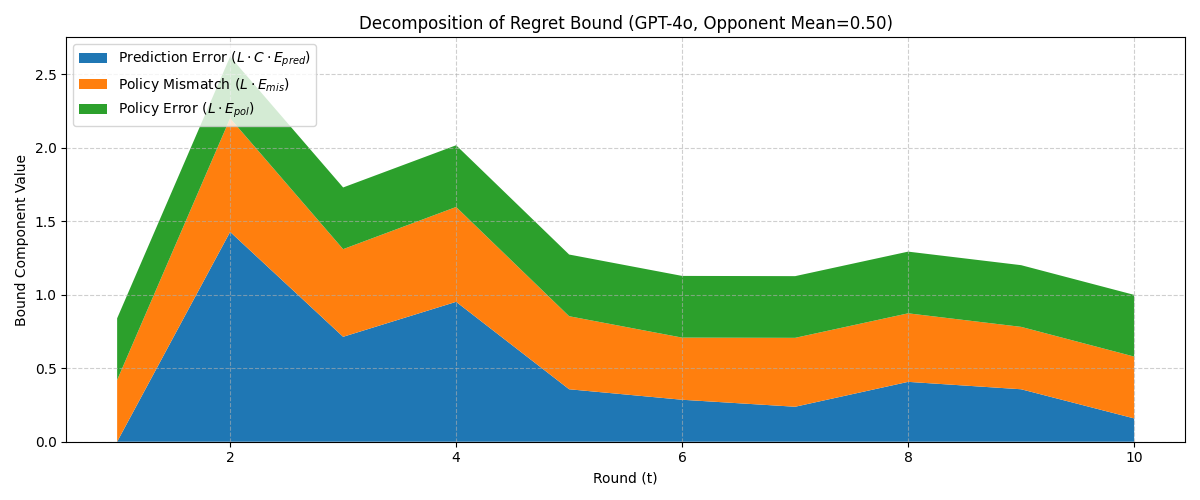
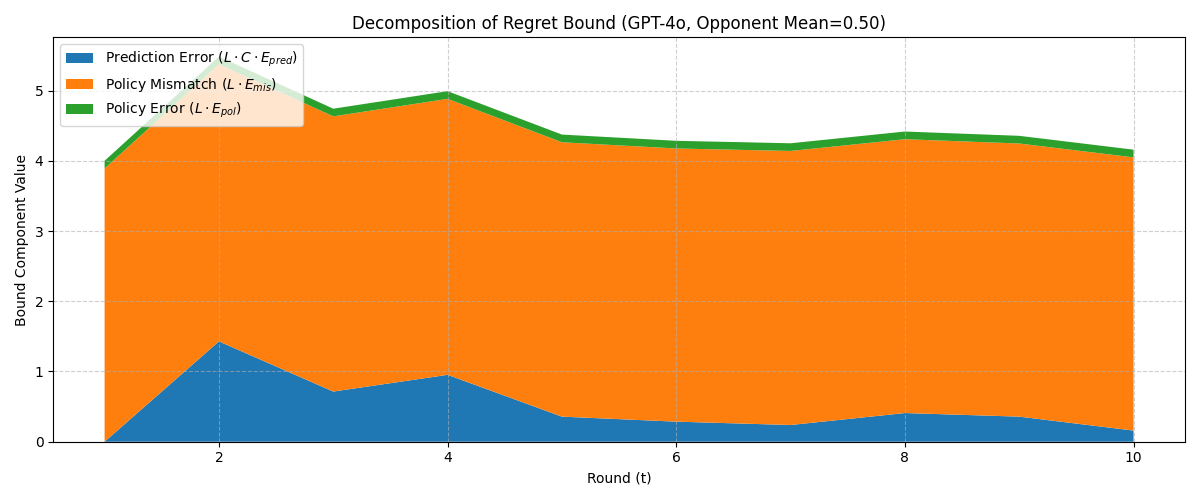
add winwin result for gemini2.0flash

diff --git a/winwin/gemini2.0flashlite/gemini20flash_with_intervention.py b/winwin/gemini2.0flashlite/gemini20flash_with_intervention.py
@@ -1,5 +1,5 @@
 from openai import OpenAI
-from dilemma import *
+from winwin import *
 import numpy as np
 import pandas as pd, os, json
 import matplotlib.pyplot as plt
@@ -190,12 +190,13 @@ def play_round_llm(
 
 
     # L (Lipschitz定数) の計算
-    L_safe = max(abs(R - S), abs(T - P)) # Q値のグローバルなLipschitz定数 (安全側)
+    #L_safe = max(abs(R - S), abs(T - P)) # Q値のグローバルなLipschitz定数 (安全側)
     # L_tight = abs(Q_true[1] - Q_true[0]) # ローカルQ値の差 (タイトだが、安全性が保証されない可能性がある)
 
     # ★ 修正: L_eff の計算は、常に最も安全なグローバル定数L_safeを使用する
     # use_range_L が True/False にかかわらず、カバレッジを保証するためL_safeを使う
-    L_eff = L_safe 
+    #L_eff = L_safe 
+    L_eff = max(R, S, T, P) - min(R, S, T, P)
     # L_eff = L_tight if use_range_L else L_safe # (この行を削除またはコメントアウト)
     C  = 0.5 * beta_f
 
@@ -556,8 +557,8 @@ def make_pd_env(seed, tremble):
     # ここはあなたの GeneralSum 環境に合わせて置き換えてください
     # 例: GeneralSumGameEnv(payoff_x, payoff_y, p_opponent, tremble, seed, env_id)
     return GeneralSumGameENV(
-        payoff_x=payoff_dilemma_x,
-        payoff_y=payoff_dilemma_y,
+        payoff_x=payoff_winwin_x,
+        payoff_y=payoff_winwin_y,
         alpha_y=2.0,       # ベータ分布のパラメータ
         beta_y=2.0,        # ベータ分布のパラメータ
         p_y1_mean=p_y1_mean_for_env, # ベータ分布の平均確率を設定
@@ -570,7 +571,7 @@ client = OpenAI(api_key=os.getenv("GEMINI_API_KEY"), base_url="https://generativ
 print("実験 1/3 (ベースライン) を実行中...")
 out_none = run_sweep_llm(
     call_llm_fn, make_env=make_pd_env, T=10, temperatures=(0.8,), trials=2, model="gemini-2.0-flash", 
-    payoff_x=payoff_dilemma_x, intervention_mode="none" # ★
+    payoff_x=payoff_winwin_x, intervention_mode="none" # ★
 )
 
 logs = out_none["per_round"]
@@ -584,7 +585,7 @@ print(f"結果を {csv_filename} に保存しました。")
 print("実験 2/3 (ターゲット介入) を実行中...")
 out_target = run_sweep_llm(
     call_llm_fn, make_env=make_pd_env, T=10, temperatures=(0.8,), trials=2, model="gemini-2.0-flash", 
-    payoff_x=payoff_dilemma_x, intervention_mode="target" # ★
+    payoff_x=payoff_winwin_x, intervention_mode="target" # ★
 )
 
 logs = out_target["per_round"]
@@ -598,7 +599,7 @@ print(f"結果を {csv_filename} に保存しました。")
 print("実験 3/3 (非ターゲット介入) を実行中...")
 out_non_target = run_sweep_llm(
     call_llm_fn, make_env=make_pd_env, T=10, temperatures=(0.8,), trials=2, model="gemini-2.0-flash", 
-    payoff_x=payoff_dilemma_x, intervention_mode="non_target" # ★
+    payoff_x=payoff_winwin_x, intervention_mode="non_target" # ★
 )
 
 logs = out_non_target["per_round"]

diff --git a/winwin/gemini2.0flashlite/winwin.py b/winwin/gemini2.0flashlite/winwin.py
@@ -1,8 +1,8 @@
 from dataclasses import dataclass
 import numpy as np
 
-payoff_dilemma_x = {'T': 5, 'R': 3, 'P': 1, 'S': 0}
-payoff_dilemma_y = {'T': 5, 'R': 3, 'P': 1, 'S': 0}
+payoff_winwin_x = {'T': 2, 'R': 4, 'P': 0, 'S': 3}
+payoff_winwin_y = {'T': 2, 'R': 4, 'P': 0, 'S': 3}
 
 
 
